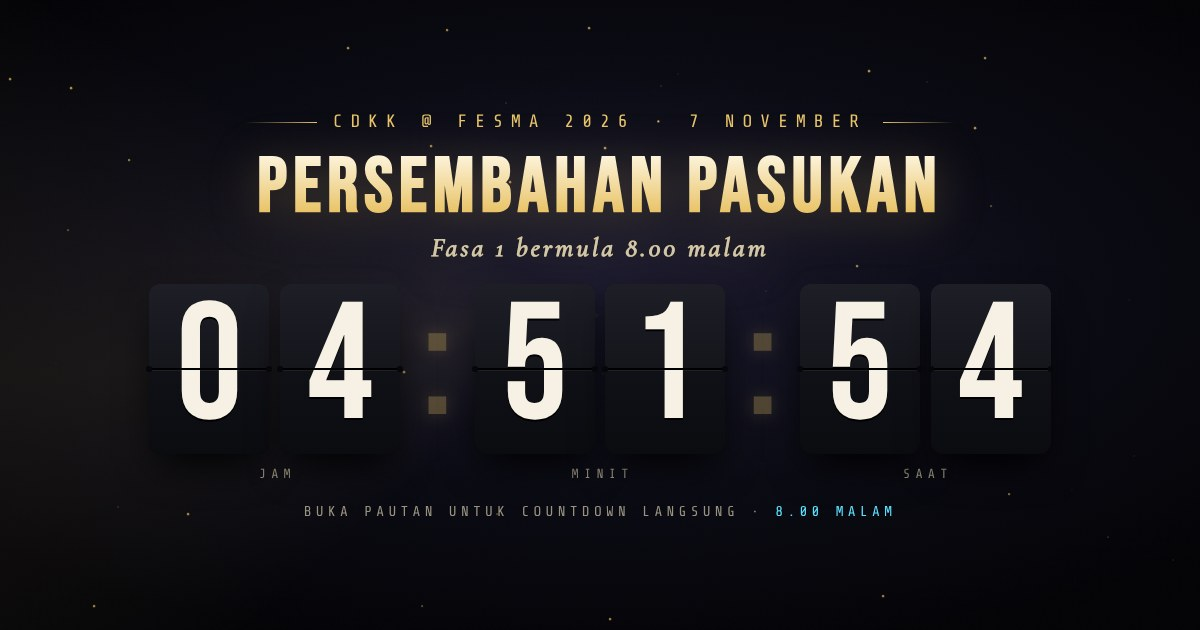
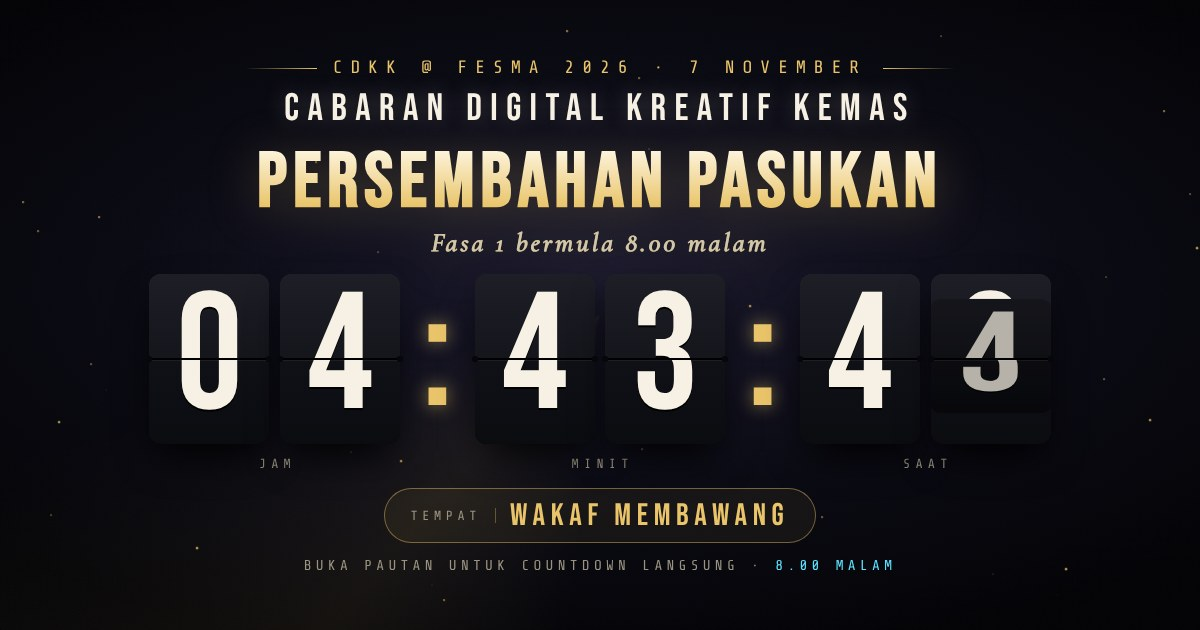
Countdown persembahan: nama program dan tempat
Claude-Session: https://claude.ai/code/session_01EzNDBCbEuHXmwFNHBbtXCc

diff --git a/persembahan/index.html b/persembahan/index.html
@@ -1,6 +1,6 @@
 <!doctype html><html lang="ms"><head><meta charset="utf-8"><meta name="viewport" content="width=device-width,initial-scale=1">
 <title>Countdown Persembahan CDKK</title>
-<meta property="og:title" content="Countdown Persembahan Pasukan CDKK · 8.00 malam"><meta property="og:description" content="Sesi persembahan pasukan CDKK @FESMA 2026 bermula 8.00 malam, 7 November 2026."><meta property="og:image" content="https://brotaufik.github.io/cdkk-portal-2026/persembahan/og.jpg"><meta property="og:image:width" content="1200"><meta property="og:image:height" content="630"><meta property="og:url" content="https://brotaufik.github.io/cdkk-portal-2026/persembahan/"><meta name="twitter:card" content="summary_large_image">
+<meta property="og:title" content="Countdown Persembahan Pasukan · Cabaran Digital Kreatif KEMAS · 8.00 malam, Wakaf Membawang"><meta property="og:description" content="Sesi persembahan pasukan CDKK @FESMA 2026 bermula 8.00 malam, 7 November 2026."><meta property="og:image" content="https://brotaufik.github.io/cdkk-portal-2026/persembahan/og.jpg"><meta property="og:image:width" content="1200"><meta property="og:image:height" content="630"><meta property="og:url" content="https://brotaufik.github.io/cdkk-portal-2026/persembahan/"><meta name="twitter:card" content="summary_large_image">
 <link rel="stylesheet" href="https://fonts.googleapis.com/css2?family=Bebas+Neue&family=Share+Tech+Mono&family=Cormorant+Garamond:ital,wght@1,500&display=swap">
 <style>
 *{box-sizing:border-box;margin:0;padding:0}
@@ -14,7 +14,7 @@ html,body{height:100%;background:#040407;color:var(--txt);font-family:"Share Tec
 .stars{position:fixed;inset:0;pointer-events:none}
 .stars i{position:absolute;width:2px;height:2px;border-radius:50%;background:var(--gold);opacity:0;animation:tw var(--t) ease-in-out infinite}
 @keyframes tw{0%,100%{opacity:0;transform:scale(.4)}50%{opacity:.9;transform:scale(1.2)}}
-.wrap{position:relative;z-index:2;height:100%;display:flex;flex-direction:column;align-items:center;justify-content:center;gap:clamp(14px,3vh,34px);padding:20px;text-align:center}
+.wrap{position:relative;z-index:2;height:100%;display:flex;flex-direction:column;align-items:center;justify-content:center;gap:clamp(10px,2.2vh,26px);padding:20px;text-align:center}
 .ey{letter-spacing:.45em;font-size:clamp(11px,1.5vw,18px);color:var(--gold);text-transform:uppercase}
 .ey:before,.ey:after{content:"";display:inline-block;width:clamp(30px,6vw,90px);height:1px;background:linear-gradient(90deg,transparent,var(--gold));vertical-align:middle;margin:0 16px}
 .ey:after{background:linear-gradient(90deg,var(--gold),transparent)}
@@ -42,6 +42,9 @@ h1 small{display:block;font-family:"Cormorant Garamond",serif;font-style:italic;
 @keyframes fb{0%{transform:rotateX(90deg)}100%{transform:rotateX(0)}}
 .flip .ft:after,.flip .fb:after{content:"";position:absolute;inset:0;background:rgba(0,0,0,0);animation:sh .45s linear forwards}
 @keyframes sh{0%{background:rgba(0,0,0,0)}60%{background:rgba(0,0,0,.35)}100%{background:rgba(0,0,0,0)}}
+.prog{font-family:"Bebas Neue",sans-serif;font-size:clamp(20px,3.2vw,44px);letter-spacing:.22em;color:#f6f1e4;margin-top:-6px;text-shadow:0 0 22px rgba(246,241,228,.25)}
+.tempat{display:inline-flex;align-items:center;gap:14px;border:1px solid rgba(233,196,106,.45);border-radius:999px;padding:8px 26px;font-family:"Bebas Neue",sans-serif;font-size:clamp(18px,2.6vw,36px);letter-spacing:.18em;color:var(--gold);background:rgba(233,196,106,.06)}
+.tempat span{font-family:"Share Tech Mono",monospace;font-size:clamp(10px,1.1vw,14px);letter-spacing:.35em;color:#9a9381;padding-right:14px;border-right:1px solid rgba(233,196,106,.35)}
 .foot{letter-spacing:.3em;font-size:clamp(10px,1.2vw,15px);color:#9a9381;text-transform:uppercase}
 .foot b{color:var(--cyan);font-weight:400}
 .now{position:fixed;top:18px;right:22px;z-index:3;letter-spacing:.25em;font-size:clamp(11px,1.3vw,16px);color:#7f7866}
@@ -54,6 +57,7 @@ canvas{position:fixed;inset:0;z-index:1;pointer-events:none}
 <div class="now">WAKTU MALAYSIA <b id="jam">--:--:--</b></div>
 <div class="wrap" id="wrap">
  <div class="ey">CDKK @ FESMA 2026 · 7 November</div>
+ <div class="prog">CABARAN DIGITAL KREATIF KEMAS</div>
  <h1 id="h1">PERSEMBAHAN PASUKAN<small id="sub">Fasa 1 bermula 8.00 malam</small></h1>
  <div class="clock" id="clock">
   <div class="grp"><div class="digits"><div class="flip" id="d0"></div><div class="flip" id="d1"></div></div><div class="lbl">Jam</div></div>
@@ -62,6 +66,7 @@ canvas{position:fixed;inset:0;z-index:1;pointer-events:none}
   <div class="sep">:</div>
   <div class="grp"><div class="digits"><div class="flip" id="d4"></div><div class="flip" id="d5"></div></div><div class="lbl">Saat</div></div>
  </div>
+ <div class="tempat"><span>TEMPAT</span> WAKAF MEMBAWANG</div>
  <div class="foot" id="foot">Baki masa ke sesi persembahan · <b>13 pasukan</b> · 20 minit setiap pasukan</div>
 </div>
 <div class="hint">F · SKRIN PENUH</div>
